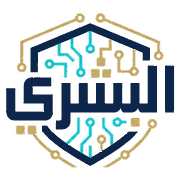
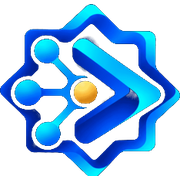
استبدال شعار البشري بالشعار الجديد (البشري للتكنولوجيا)
- albashari-logo.png و albashari-mark.png بالشعار الجديد (بنفس الأسماء فلا تتغير الصفحات)
- لوحة الشعار صارت كحلية بدل البيضاء ليظهر نص الشعار الأبيض، وكذلك عند الطباعة

Claude-Session: https://claude.ai/code/session_013bMcHqZxRcK5Je7u2jgZEc

diff --git a/natija/shared/theme.css b/natija/shared/theme.css
@@ -41,7 +41,7 @@ body::before{
 /* ---------- 2. الترويسة ولوحة الشعار ---------- */
 header.site{padding:30px 0 8px; text-align:center}
 .plate{display:inline-flex; align-items:center; justify-content:center;
-  background:#fff; padding:16px 26px 14px; border-radius:22px;
+  background:radial-gradient(120% 120% at 50% 0%,#0B1F4D,#040D26); padding:16px 26px 14px; border-radius:22px;
   border:1.5px solid var(--gold); box-shadow:0 14px 34px rgba(4,12,30,.5), 0 0 0 5px rgba(255,255,255,.07)}
 header.site .plate img{width:168px; max-width:46vw; height:auto; display:block}
 .rule{display:flex; align-items:center; justify-content:center; gap:12px; margin:18px auto 14px; max-width:460px}
@@ -215,7 +215,8 @@ footer .dis{font-size:11.5px; color:#7F8FAE; margin:14px auto 0; max-width:46ch;
   body::before,.no-print,header.site .sub,.rule{display:none!important}
   .wrap{max-width:none; padding:0}
   header.site{padding:0 0 6px}
-  header.site .plate{padding:0; border:0; box-shadow:none}
+  header.site .plate{padding:10px 14px; border:0; box-shadow:none}
+  .plate{background:#040D26!important; -webkit-print-color-adjust:exact; print-color-adjust:exact}
   header.site .plate img{width:120px}
   h1{color:#0E1F42; font-size:22px}
   .panel{box-shadow:none; border-color:#0E1F42; margin-top:10px; page-break-inside:avoid}

diff --git a/shared/theme.css b/shared/theme.css
@@ -41,7 +41,7 @@ body::before{
 /* ---------- 2. الترويسة ولوحة الشعار ---------- */
 header.site{padding:30px 0 8px; text-align:center}
 .plate{display:inline-flex; align-items:center; justify-content:center;
-  background:#fff; padding:16px 26px 14px; border-radius:22px;
+  background:radial-gradient(120% 120% at 50% 0%,#0B1F4D,#040D26); padding:16px 26px 14px; border-radius:22px;
   border:1.5px solid var(--gold); box-shadow:0 14px 34px rgba(4,12,30,.5), 0 0 0 5px rgba(255,255,255,.07)}
 header.site .plate img{width:168px; max-width:46vw; height:auto; display:block}
 .rule{display:flex; align-items:center; justify-content:center; gap:12px; margin:18px auto 14px; max-width:460px}
@@ -215,7 +215,8 @@ footer .dis{font-size:11.5px; color:#7F8FAE; margin:14px auto 0; max-width:46ch;
   body::before,.no-print,header.site .sub,.rule{display:none!important}
   .wrap{max-width:none; padding:0}
   header.site{padding:0 0 6px}
-  header.site .plate{padding:0; border:0; box-shadow:none}
+  header.site .plate{padding:10px 14px; border:0; box-shadow:none}
+  .plate{background:#040D26!important; -webkit-print-color-adjust:exact; print-color-adjust:exact}
   header.site .plate img{width:120px}
   h1{color:#0E1F42; font-size:22px}
   .panel{box-shadow:none; border-color:#0E1F42; margin-top:10px; page-break-inside:avoid}
